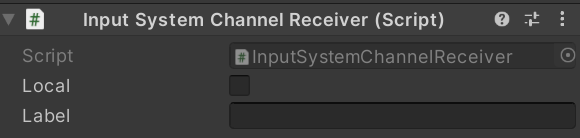
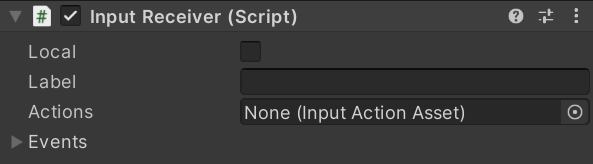
fix

diff --git a/com.unity.renderstreaming/Documentation~/control-camera.md b/com.unity.renderstreaming/Documentation~/control-camera.md
@@ -6,7 +6,11 @@ To control the camera on the remote PC,  we need to link the input events on web
 
 Open the Unity scene which created in [the previous page](create-camera.md), and select **Main Camera** in the Hierarchy window. Add the **Input Receiver** component in the Inspector window.
 
-![Control camera 01](images/control_camera_01.png)
+![Add InputReceiver component](images/add_inputreceiver_component.png)
+
+The initial condition of the inspector of **Input Receiver** is below.
+
+![Add InputReceiver component](images/inputreceiver_inspector.png)
 
 ## Setting Input Actions
 
@@ -42,13 +46,13 @@ The result will look like this. Note that the last step is to press the **Save A
 
 ## Setting `InputReceiver` component
 
-Drag the **Control** asset in the project window to the **Input Actions** property of the `InputReceiver` component.
+Drag the **Control** asset to the **Input Actions** property of the `InputReceiver` component.
 
-![Control camera 01](images/control_camera_07.png)
+![Control camera 01](images/assign_inputactions_to_inputreceiver.png)
 
-Add the code to control the rotation of the camera. Right-click on the project window and select **Create > C#** Script to create the asset. Change the asset name to `PlayerController`.
+Add the code to control the rotation of the camera. Right-click on the project window and select **Create > C#** Script to create the asset. Change the asset name to `PlayerControler`.
 
-![Control camera 01](images/control_camera_08.png)
+![Create Player Controller component](images/create_playercontroler_component.png)
 
 The contents of the script will be as follows.
 
@@ -61,18 +65,14 @@ public class PlayerController : MonoBehaviour
     public void Look(InputAction.CallbackContext value)
     {
         Vector2 input = value.ReadValue<Vector2>();
-        transform.eulerAngles = new Vector3(-input.y, input.x, 0);
+        transform.eulerAngles += new Vector3(-input.y, input.x, 0);
     }
 }
 ```
 
-Once you have copied the script and saved the file, add the `PlayerController` component to the **Main Camera** object in the Hierarchy window.
+Once you have copied the script and saved the file, assign `PlayerController.Look` to the **SimplePlayerInput** component's **Look** event.
 
-![Control camera 01](images/control_camera_09.png)
-
-Assign `PlayerController.Look` to the **SimplePlayerInput** component's **Look** event.
-
-![Control camera 01](images/control_camera_10.png)
+![Control camera 01](images/assign_event_to_inputreceiver.png)
 
 ## Checking on browsers
 
